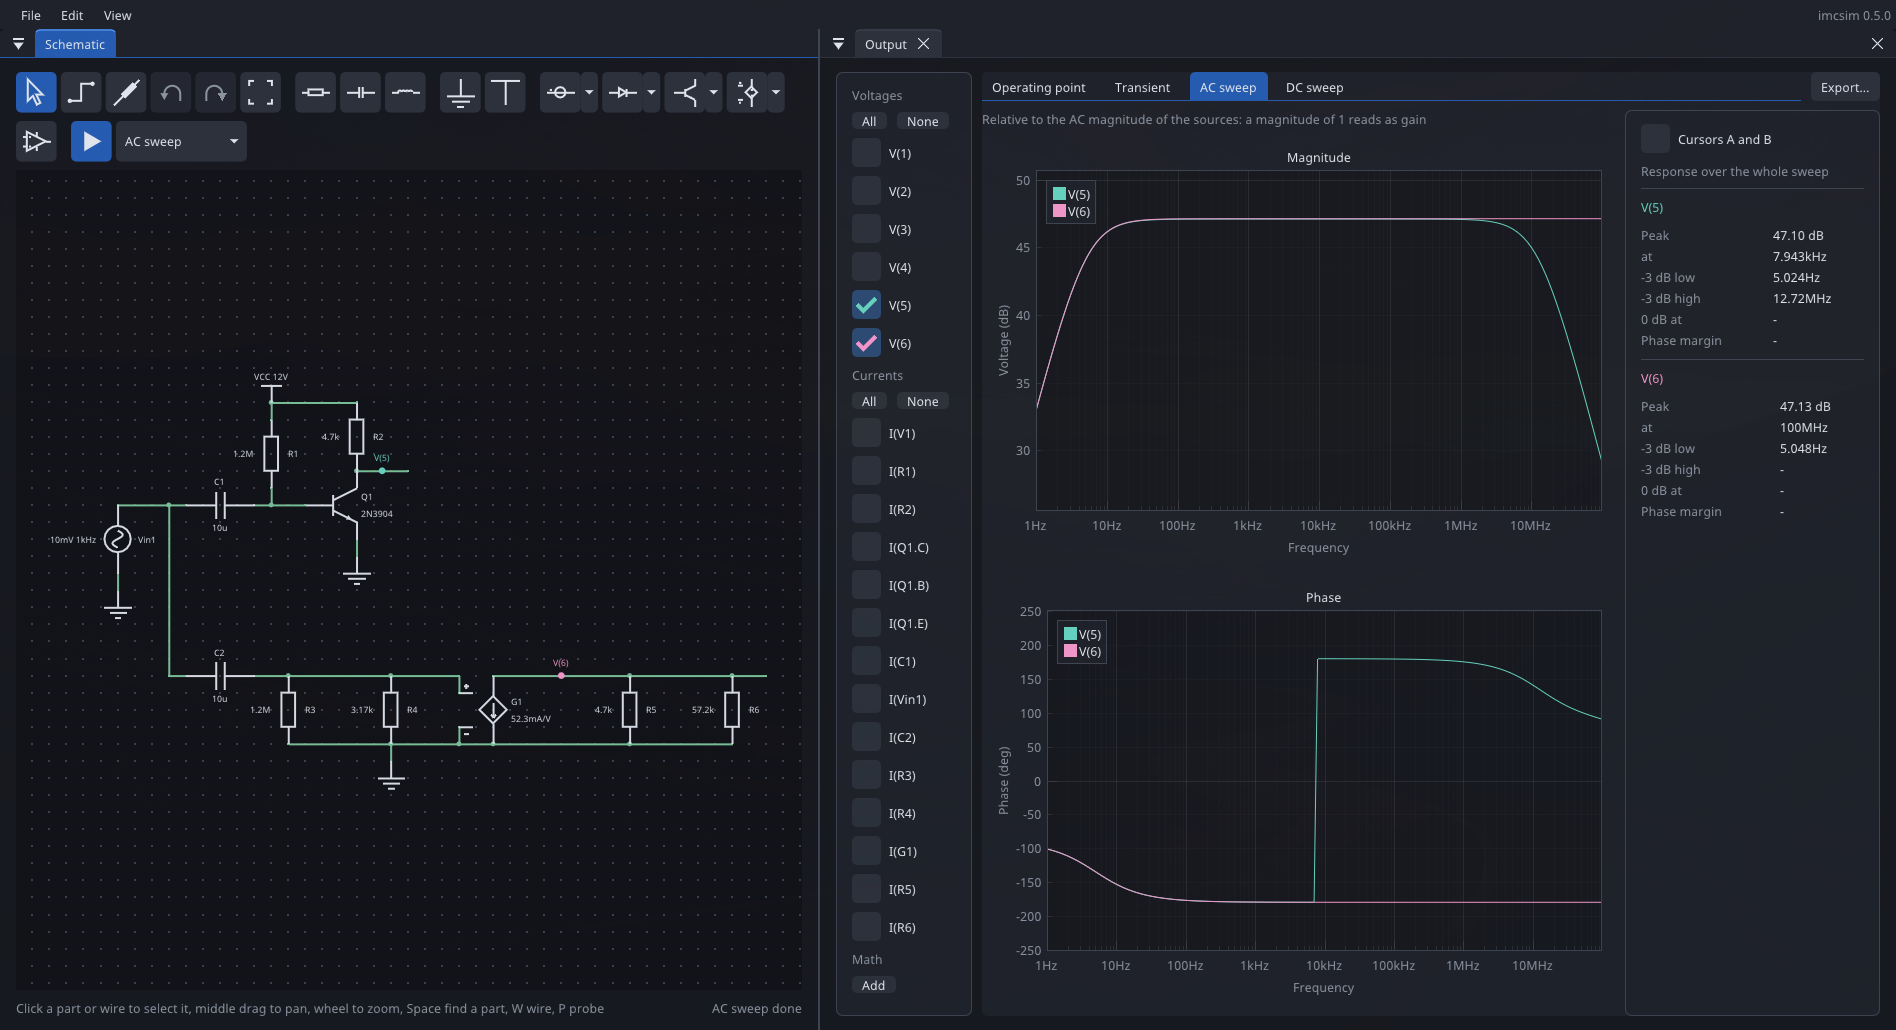
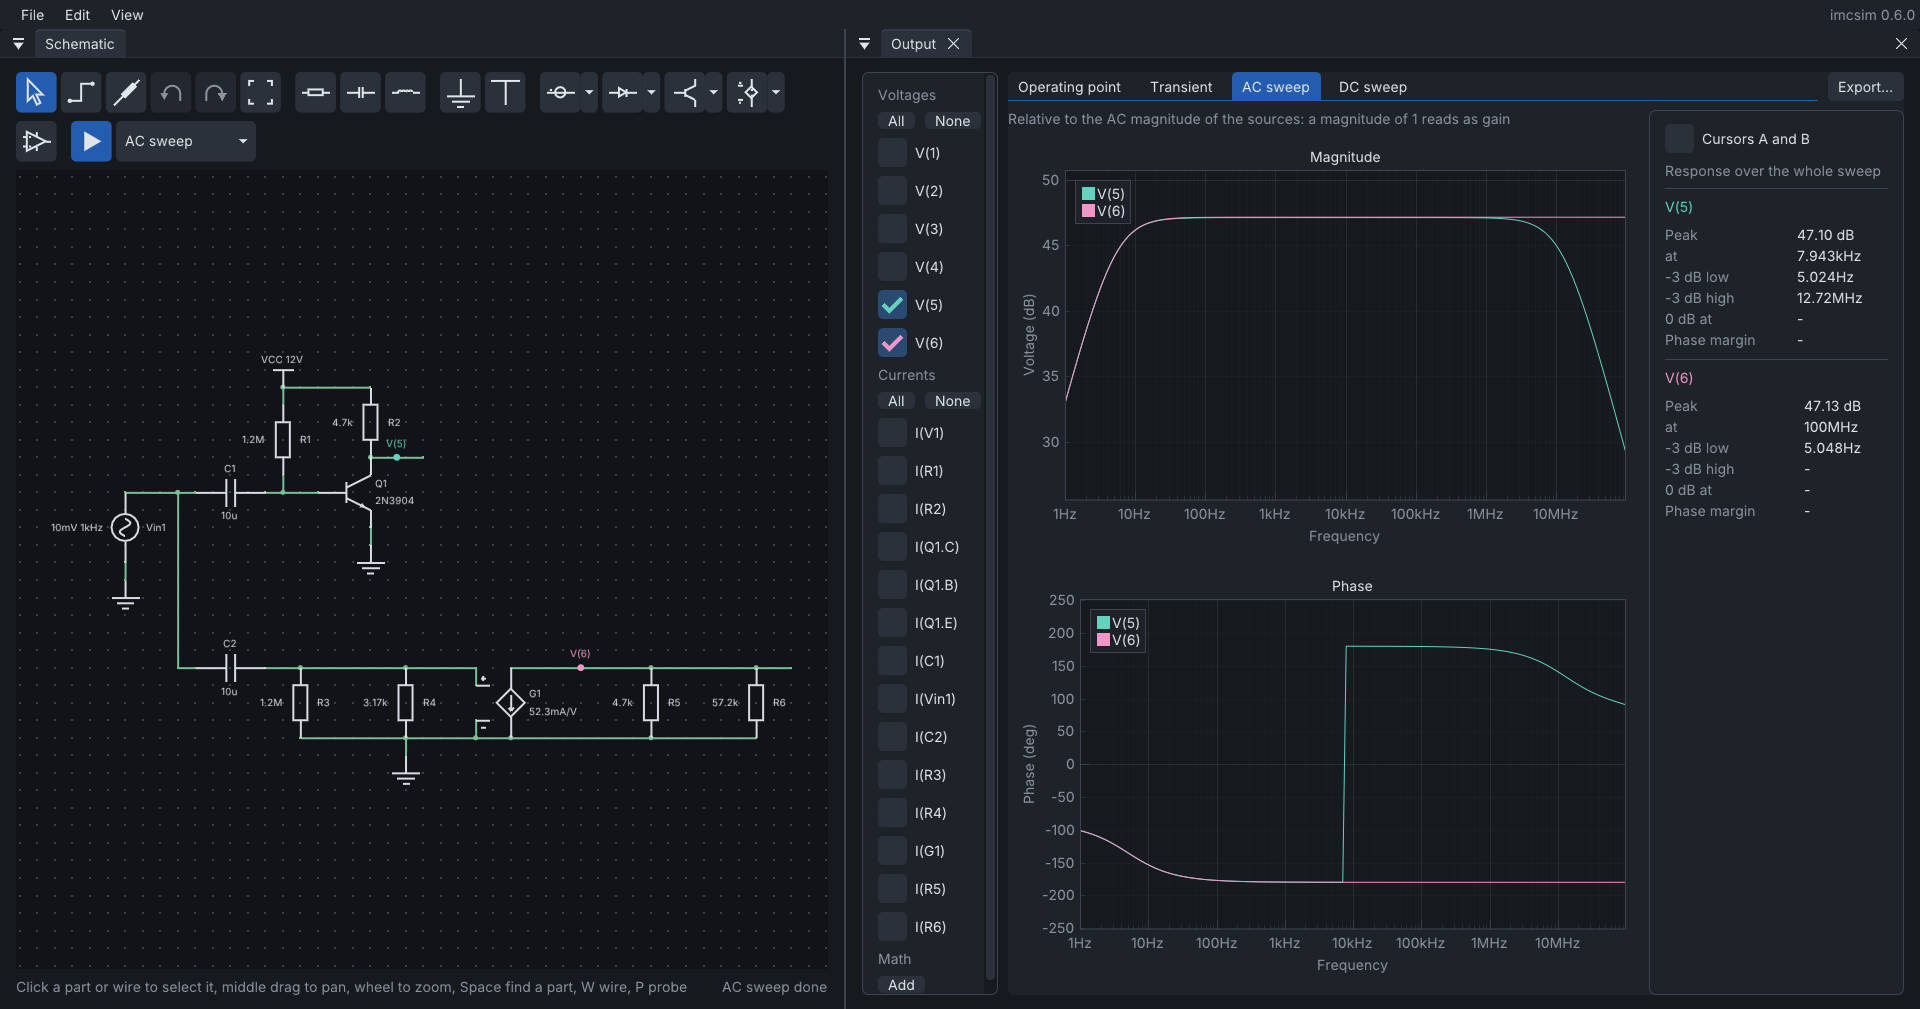
Update themes and documentation

diff --git a/app-gui/theme.cpp b/app-gui/theme.cpp
@@ -53,59 +53,163 @@ constexpr auto Themes = std::to_array<ThemePalette>({
      .VoltageLabel = Col(255, 220, 120),
      .HeatLow = Rgb(60, 120, 255),
      .HeatHigh = Rgb(235, 60, 50)},
-    // Warm charcoal surfaces with a single red accent
+    // Warm charcoal surfaces with a glowing ember-orange accent
     {.Name = "Ember",
      .Light = false,
-     .Background = Rgb(22, 18, 19),
-     .Surface = Rgb(31, 25, 26),
-     .Raised = Rgb(46, 36, 38),
-     .RaisedHot = Rgb(60, 46, 49),
-     .Border = Rgb(66, 52, 55),
-     .Text = Rgb(235, 226, 227),
-     .TextMuted = Rgb(160, 142, 145),
-     .Accent = Rgb(214, 62, 68),
-     .AccentHot = Rgb(236, 96, 100),
-     .AccentDim = Rgb(156, 42, 49),
-     // Errors lean toward vermilion and are brighter, so they do not read as accented text
-     .ErrorText = Rgb(255, 92, 64),
-     .WarningText = Rgb(255, 204, 102),
+     .Background = Rgb(21, 18, 19),
+     .Surface = Rgb(29, 24, 26),
+     .Raised = Rgb(42, 34, 37),
+     .RaisedHot = Rgb(56, 44, 48),
+     .Border = Rgb(64, 50, 54),
+     .Text = Rgb(238, 230, 230),
+     .TextMuted = Rgb(158, 140, 143),
+     // Glowing ember orange-terracotta, clearly separated from red errors
+     .Accent = Rgb(228, 86, 52),
+     .AccentHot = Rgb(255, 115, 78),
+     .AccentDim = Rgb(164, 52, 28),
+     .ErrorText = Rgb(255, 75, 92),
+     .WarningText = Rgb(255, 196, 64),
      .PlotGrid = Rgb(255, 255, 255, 0.08f),
-     .CanvasBackground = Col(18, 15, 16),
-     .GridDot = Col(78, 63, 66),
-     .Element = Col(220, 220, 220),
-     .Wire = Col(158, 192, 120),
-     // Selection stays amber so it is not mistaken for the salmon of node 1
-     .Selected = Col(255, 200, 80),
-     .CanvasText = Col(255, 255, 255),
-     .VoltageLabel = Col(255, 220, 120),
+     .CanvasBackground = Col(17, 14, 15),
+     .GridDot = Col(54, 42, 45),
+     .Element = Col(235, 225, 222),
+     // Clean fresh sage-mint wire that stays clear and vivid over warm charcoal
+     .Wire = Col(115, 210, 170),
+     // Selection stays bright warm gold
+     .Selected = Col(255, 210, 75),
+     .CanvasText = Col(248, 242, 240),
+     .VoltageLabel = Col(255, 205, 95),
      .HeatLow = Rgb(60, 120, 255),
      .HeatHigh = Rgb(235, 60, 50)},
-    // A green monochrome CRT, after the P39 I variant of the Green Monochrome Monitor CRT Phosphor theme for Zed
-    // (MIT): pure black, one green (#00B400) at several intensities over it, and a brighter one (#00FF66) for what
-    // stands out. Node and trace colors keep their hues, so plots stay readable
+    // A green monochrome CRT, balanced for eye comfort: deep charcoal-emerald base, luminous P31 mint text,
+    // and bright electric green for traces and wires
     {.Name = "Phosphor",
      .Light = false,
-     .Background = Rgb(0, 0, 0),
-     .Surface = Rgb(0, 34, 0),
-     .Raised = Rgb(0, 45, 0),
-     .RaisedHot = Rgb(0, 68, 0),
-     .Border = Rgb(0, 68, 0),
-     .Text = Rgb(0, 180, 0),
-     .TextMuted = Rgb(0, 145, 0),
-     .Accent = Rgb(0, 135, 0),
-     .AccentHot = Rgb(0, 255, 102),
-     .AccentDim = Rgb(0, 90, 0),
-     // Brightness tells problems apart, as on a monochrome screen
-     .ErrorText = Rgb(0, 255, 102),
-     .WarningText = Rgb(150, 255, 150),
-     .PlotGrid = Rgb(0, 180, 0, 0.15f),
-     .CanvasBackground = Col(0, 0, 0),
-     .GridDot = Col(0, 56, 0),
-     .Element = Col(0, 180, 0),
-     .Wire = Col(0, 255, 102),
-     .Selected = Col(200, 255, 200),
-     .CanvasText = Col(0, 180, 0),
-     .VoltageLabel = Col(0, 255, 102),
+     .Background = Rgb(11, 17, 13),
+     .Surface = Rgb(16, 26, 19),
+     .Raised = Rgb(24, 38, 28),
+     .RaisedHot = Rgb(33, 53, 39),
+     .Border = Rgb(38, 62, 45),
+     .Text = Rgb(196, 240, 210),
+     .TextMuted = Rgb(105, 145, 118),
+     .Accent = Rgb(38, 166, 91),
+     .AccentHot = Rgb(0, 230, 118),
+     .AccentDim = Rgb(22, 102, 54),
+     .ErrorText = Rgb(255, 110, 90),
+     .WarningText = Rgb(255, 210, 80),
+     .PlotGrid = Rgb(0, 230, 118, 0.10f),
+     .CanvasBackground = Col(9, 14, 11),
+     .GridDot = Col(26, 44, 32),
+     .Element = Col(114, 232, 159),
+     .Wire = Col(0, 230, 118),
+     .Selected = Col(235, 255, 240),
+     .CanvasText = Col(180, 235, 200),
+     .VoltageLabel = Col(240, 255, 140),
+     .HeatLow = Rgb(60, 120, 255),
+     .HeatHigh = Rgb(235, 60, 50),
+     .BrightTraces = true},
+    // An analog oscilloscope screen: green phosphor signals on near-black, with a warm amber accent for controls and cursors
+    {.Name = "Oscilloscope",
+     .Light = false,
+     .Background = Rgb(12, 16, 13),
+     .Surface = Rgb(18, 24, 20),
+     .Raised = Rgb(28, 38, 31),
+     .RaisedHot = Rgb(40, 54, 44),
+     .Border = Rgb(48, 64, 52),
+     .Text = Rgb(210, 235, 215),
+     .TextMuted = Rgb(120, 150, 128),
+     .Accent = Rgb(220, 140, 25),
+     .AccentHot = Rgb(255, 180, 50),
+     .AccentDim = Rgb(150, 95, 18),
+     .ErrorText = Rgb(255, 90, 75),
+     .WarningText = Rgb(255, 200, 70),
+     .PlotGrid = Rgb(0, 230, 118, 0.12f),
+     .CanvasBackground = Col(8, 12, 10),
+     .GridDot = Col(24, 42, 30),
+     .Element = Col(130, 235, 160),
+     .Wire = Col(0, 255, 128),
+     .Selected = Col(255, 195, 60),
+     .CanvasText = Col(200, 240, 210),
+     .VoltageLabel = Col(255, 190, 60),
+     .HeatLow = Rgb(60, 120, 255),
+     .HeatHigh = Rgb(235, 60, 50),
+     .BrightTraces = true},
+    // Cool dark slate interface with a glowing neon phosphor canvas
+    {.Name = "Cyber Slate",
+     .Light = false,
+     .Background = Rgb(18, 20, 23),
+     .Surface = Rgb(25, 29, 34),
+     .Raised = Rgb(38, 44, 52),
+     .RaisedHot = Rgb(50, 58, 68),
+     .Border = Rgb(56, 64, 75),
+     .Text = Rgb(225, 230, 236),
+     .TextMuted = Rgb(135, 144, 155),
+     .Accent = Rgb(0, 200, 100),
+     .AccentHot = Rgb(35, 255, 135),
+     .AccentDim = Rgb(0, 115, 60),
+     .ErrorText = Rgb(255, 95, 80),
+     .WarningText = Rgb(255, 205, 75),
+     .PlotGrid = Rgb(0, 230, 118, 0.12f),
+     .CanvasBackground = Col(11, 14, 13),
+     .GridDot = Col(28, 46, 36),
+     .Element = Col(120, 240, 160),
+     .Wire = Col(0, 255, 120),
+     .Selected = Col(255, 230, 100),
+     .CanvasText = Col(220, 245, 230),
+     .VoltageLabel = Col(255, 215, 80),
+     .HeatLow = Rgb(60, 120, 255),
+     .HeatHigh = Rgb(235, 60, 50),
+     .BrightTraces = true},
+    // Classic engineering blueprint: Prussian navy, crisp chalk-white parts, cyan wires and accent, drafting gold
+    // selection
+    {.Name = "Blueprint",
+     .Light = false,
+     .Background = Rgb(11, 21, 36),
+     .Surface = Rgb(18, 33, 54),
+     .Raised = Rgb(27, 47, 76),
+     .RaisedHot = Rgb(38, 64, 102),
+     .Border = Rgb(46, 76, 120),
+     .Text = Rgb(225, 238, 255),
+     .TextMuted = Rgb(130, 160, 200),
+     .Accent = Rgb(56, 189, 248),
+     .AccentHot = Rgb(125, 218, 255),
+     .AccentDim = Rgb(24, 105, 175),
+     .ErrorText = Rgb(255, 100, 90),
+     .WarningText = Rgb(250, 204, 21),
+     .PlotGrid = Rgb(56, 189, 248, 0.12f),
+     .CanvasBackground = Col(9, 17, 30),
+     .GridDot = Col(28, 52, 85),
+     .Element = Col(240, 248, 255),
+     .Wire = Col(56, 189, 248),
+     .Selected = Col(250, 204, 21),
+     .CanvasText = Col(215, 238, 255),
+     .VoltageLabel = Col(250, 204, 21),
+     .HeatLow = Rgb(60, 120, 255),
+     .HeatHigh = Rgb(235, 60, 50),
+     .BrightTraces = true},
+    // Monochrome amber CRT / plasma monitor: zero blue light, rich charcoal with golden phosphor glow
+    {.Name = "Amber",
+     .Light = false,
+     .Background = Rgb(18, 15, 13),
+     .Surface = Rgb(26, 21, 17),
+     .Raised = Rgb(38, 30, 24),
+     .RaisedHot = Rgb(54, 42, 33),
+     .Border = Rgb(64, 50, 38),
+     .Text = Rgb(255, 222, 175),
+     .TextMuted = Rgb(165, 135, 100),
+     .Accent = Rgb(245, 158, 11),
+     .AccentHot = Rgb(255, 195, 45),
+     .AccentDim = Rgb(165, 95, 8),
+     .ErrorText = Rgb(255, 85, 70),
+     .WarningText = Rgb(255, 225, 100),
+     .PlotGrid = Rgb(245, 158, 11, 0.12f),
+     .CanvasBackground = Col(13, 11, 9),
+     .GridDot = Col(45, 34, 24),
+     .Element = Col(255, 215, 150),
+     .Wire = Col(255, 170, 30),
+     .Selected = Col(255, 245, 140),
+     .CanvasText = Col(250, 212, 165),
+     .VoltageLabel = Col(255, 240, 120),
      .HeatLow = Rgb(60, 120, 255),
      .HeatHigh = Rgb(235, 60, 50),
      .BrightTraces = true},
@@ -133,6 +237,31 @@ constexpr auto Themes = std::to_array<ThemePalette>({
      .Selected = Col(214, 120, 0),
      .CanvasText = Col(20, 20, 20),
      .VoltageLabel = Col(150, 90, 0),
+     .HeatLow = Rgb(30, 80, 200),
+     .HeatHigh = Rgb(190, 35, 30)},
+    // Aged parchment with sepia ink, forest green wires and a wax-red accent, like a mid-century vacuum-tube manual
+    {.Name = "Vintage",
+     .Light = true,
+     .Background = Rgb(245, 240, 230),
+     .Surface = Rgb(237, 230, 218),
+     .Raised = Rgb(224, 215, 200),
+     .RaisedHot = Rgb(210, 200, 182),
+     .Border = Rgb(195, 182, 162),
+     .Text = Rgb(46, 36, 28),
+     .TextMuted = Rgb(120, 105, 92),
+     .Accent = Rgb(225, 160, 140),
+     .AccentHot = Rgb(185, 65, 45),
+     .AccentDim = Rgb(240, 205, 190),
+     .ErrorText = Rgb(185, 40, 30),
+     .WarningText = Rgb(170, 95, 10),
+     .PlotGrid = Rgb(46, 36, 28, 0.08f),
+     .CanvasBackground = Col(250, 246, 238),
+     .GridDot = Col(205, 196, 180),
+     .Element = Col(42, 34, 26),
+     .Wire = Col(35, 105, 65),
+     .Selected = Col(195, 70, 30),
+     .CanvasText = Col(36, 28, 22),
+     .VoltageLabel = Col(175, 80, 20),
      .HeatLow = Rgb(30, 80, 200),
      .HeatHigh = Rgb(190, 35, 30)},
 });

diff --git a/docs/themes.md b/docs/themes.md
@@ -1,0 +1,92 @@
+# Themes
+
+imcsim has nine color themes, seven dark and two light. View > Theme switches between them, and the choice is kept
+between sessions in `imgui.ini`. A theme colors the interface, the schematic canvas and the plots; the node and trace
+colors keep their hues in every theme, so a trace is easy to find again after switching. The light themes darken them
+to read on their background, and Phosphor, Oscilloscope, Cyber Slate, Blueprint and Amber brighten them to stand out
+on their darker ones.
+
+Every theme below shows the same circuit, the "Small-signal model of a BJT" example from File > Examples: the
+schematic, then the Output window with its AC sweep.
+
+- [Graphite](#graphite) (the default)
+- [Ember](#ember)
+- [Phosphor](#phosphor)
+- [Oscilloscope](#oscilloscope)
+- [Cyber Slate](#cyber-slate)
+- [Blueprint](#blueprint)
+- [Amber](#amber)
+- [Paper](#paper) (light)
+- [Vintage](#vintage) (light)
+
+## Graphite
+
+The default: cool blue-gray surfaces with a blue accent; errors stay red, apart from the accent.
+
+![The small-signal example in the Graphite theme](images/theme_graphite_schematic.png)
+
+![Its AC sweep in the Graphite theme](images/theme_graphite_output.png)
+
+## Ember
+
+Warm charcoal surfaces with a glowing ember-orange accent, kept apart from the red of errors, and mint wires.
+
+![The small-signal example in the Ember theme](images/theme_ember_schematic.png)
+
+![Its AC sweep in the Ember theme](images/theme_ember_output.png)
+
+## Phosphor
+
+A green monochrome CRT, softened for long sessions: a deep emerald-black base, mint text and bright green wires.
+
+![The small-signal example in the Phosphor theme](images/theme_phosphor_schematic.png)
+
+![Its AC sweep in the Phosphor theme](images/theme_phosphor_output.png)
+
+## Oscilloscope
+
+An analog oscilloscope screen: green phosphor signals on near-black, with an amber accent for controls and cursors.
+
+![The small-signal example in the Oscilloscope theme](images/theme_oscilloscope_schematic.png)
+
+![Its AC sweep in the Oscilloscope theme](images/theme_oscilloscope_output.png)
+
+## Cyber Slate
+
+A cool dark slate interface with neon green parts, wires and accent.
+
+![The small-signal example in the Cyber Slate theme](images/theme_cyber_slate_schematic.png)
+
+![Its AC sweep in the Cyber Slate theme](images/theme_cyber_slate_output.png)
+
+## Blueprint
+
+An engineering blueprint: Prussian navy, chalk-white parts, and cyan for the wires and the accent, and gold for the selection.
+
+![The small-signal example in the Blueprint theme](images/theme_blueprint_schematic.png)
+
+![Its AC sweep in the Blueprint theme](images/theme_blueprint_output.png)
+
+## Amber
+
+A monochrome amber CRT: charcoal with a golden glow and no blue light.
+
+![The small-signal example in the Amber theme](images/theme_amber_schematic.png)
+
+![Its AC sweep in the Amber theme](images/theme_amber_output.png)
+
+## Paper
+
+Light: off-white paper with dark ink and a blue accent, like a printed datasheet.
+
+![The small-signal example in the Paper theme](images/theme_paper_schematic.png)
+
+![Its AC sweep in the Paper theme](images/theme_paper_output.png)
+
+## Vintage
+
+Light: aged parchment with sepia ink, forest green wires and a wax-red accent, like a mid-century vacuum-tube manual.
+
+![The small-signal example in the Vintage theme](images/theme_vintage_schematic.png)
+
+![Its AC sweep in the Vintage theme](images/theme_vintage_output.png)

diff --git a/README.md b/README.md
@@ -33,7 +33,7 @@ New to imcsim? The [tutorial](docs/tutorial.md) builds, simulates and exports a 
   heat map that shows the path of the current
 - Exports for reports: plots as SVG images (light for print or dark, at any size) or CSV tables, and the schematic
   as an SVG image with its probes, so the two figures can be shown side by side
-- Four color themes (Graphite, Ember, Phosphor and the light Paper), switched from the View menu
+- Nine color themes, seven dark and two light, switched from the View menu (see [Themes](docs/themes.md))
 - IEC or ANSI symbols, optional terminal numbers, parts rotated (R) and mirrored left to right (M) or top to bottom
   (Shift+M), undo and redo, and schematics saved as JSON together with the settings of every analysis and the
   measured traces
@@ -60,15 +60,12 @@ Output characteristics of a 2N3904 from a stepped DC sweep, one curve per base c
 
 ![A DC sweep of the collector voltage for five base currents, each curve labeled with its current](docs/images/dc_sweep.png)
 
-The four themes: Graphite (the default), Ember, Phosphor and the light Paper:
-
-![The same circuit and transient in the Graphite, Ember, Phosphor and Paper themes](docs/images/themes.png)
-
 ## Documentation
 
 The [tutorial](docs/tutorial.md) walks through a first circuit step by step. The [user guide](docs/user_guide.md)
 explains the editor, terminal numbers, current signs, probes, plots and exports, and
-[Simulation models](docs/models.md) describes the model behind every part and what it leaves out.
+[Simulation models](docs/models.md) describes the model behind every part and what it leaves out. [Themes](docs/themes.md)
+shows the same circuit and its plots in each color theme.
 
 ## Install
 

diff --git a/docs/user_guide.md b/docs/user_guide.md
@@ -30,9 +30,10 @@ How to read what imcsim measures, plots and exports. The [README](../README.md) 
 - **Menus**: File (files, examples and the schematic export), Edit (undo, redo and changes to the selection) and
   View (fit, wire colors, symbol style, terminal numbers, theme, and the windows). The View choices are kept between
   sessions.
-- **Themes**: View > Theme switches between Graphite (cool gray and blue, the default), Ember (warm charcoal
-  and red), Phosphor (a green monochrome CRT, after a Zed theme) and Paper (light, like a printed datasheet). Node and
-  trace colors are the same in every theme; Paper darkens them so they read on its light background.
+- **Themes**: View > Theme switches between nine themes, seven dark (Graphite, the default, Ember, Phosphor,
+  Oscilloscope, Cyber Slate, Blueprint and Amber) and two light (Paper and Vintage); [Themes](themes.md) shows each
+  one. Node and trace colors keep their hues in every theme: the light themes darken them to read on their
+  background, and Phosphor, Oscilloscope, Cyber Slate, Blueprint and Amber brighten them.
 - **Output window**: hidden until an analysis runs; it then comes to the front on the tab of the new result. The
   operating point tab lists the node voltages and part currents, which also show on the schematic. Reopen it from View.
 - **Window layout**: every window floats or docks. Drag a window by its title (or a docked one by its tab) onto

diff --git a/docs/tutorial.md b/docs/tutorial.md
@@ -167,6 +167,6 @@ analysis, and the measured nodes and currents, so reopening it is one F5 away fr
 
 - Open the other examples in File > Examples; each has its analyses and measurements set up.
 - Try the transistors, diodes and op-amps: each takes a ready model or custom SPICE parameters in its properties.
-- View > Theme switches between Graphite, Ember, Phosphor and the light Paper.
+- View > Theme switches between nine color themes, shown side by side in [Themes](themes.md).
 - Read the [user guide](user_guide.md) for terminal order, current signs and the details of each plot, and
   [Simulation models](models.md) for what each part leaves out.
